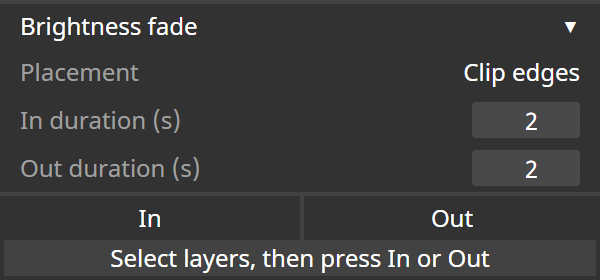
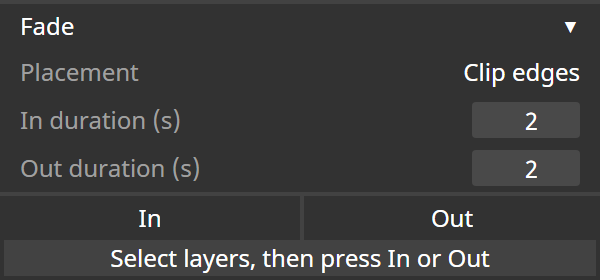
Rename plugin to In Out and fade audio volume
Audio layers (no brightness sequence) now get a Volume fade. Plugin,
folder and archive renamed from Brightness In Out to In Out; errors show
Designer's own message instead of a bare HTTP status. Refresh screenshot.

Changed region(s): [[0.03, 0.0571, 0.33, 0.1429]]

diff --git a/plugins/in-out/index.html b/plugins/in-out/index.html
@@ -6,7 +6,7 @@
     <meta name="disguise-plugin-window-size" content="300,170" />
     <meta name="disguise-plugin-window-min-size" content="240,150" />
     <meta name="disguise-plugin-window-resizable" content="true" />
-    <title>Brightness In / Out</title>
+    <title>In / Out</title>
     <link rel="stylesheet" href="disguise-ui.css" />
     <style>
       * { box-sizing: border-box; }
@@ -42,7 +42,7 @@
     </style>
   </head>
   <body class="d3-app d3-embedded">
-    <div class="d3-section">Brightness fade</div>
+    <div class="d3-section">Fade</div>
     <div class="d3-section-body">
       <label class="d3-row">
         <span class="d3-label nw">Placement</span>
@@ -80,10 +80,10 @@
 
       function restoreSettings() {
         ids.forEach((id) => {
-          const saved = localStorage.getItem(`brightness-fader:${id}`);
+          const saved = localStorage.getItem(`in-out:${id}`);
           if (saved !== null) fields[id].value = saved;
           fields[id].addEventListener('change', () => {
-            localStorage.setItem(`brightness-fader:${id}`, fields[id].value);
+            localStorage.setItem(`in-out:${id}`, fields[id].value);
           });
         });
       }
@@ -112,7 +112,11 @@
           'changed = []',
           'skipped = []',
           'for layer in selected:',
-          '    sequence = layer.findSequence("brightness")',
+          '    sequence = None',
+          '    for field_name in ("brightness", "volume"):',
+          '        sequence = layer.findSequence(field_name)',
+          '        if sequence is not None:',
+          '            break',
           '    if sequence is None:',
           '        skipped.append(layer.name)',
           '        continue',
@@ -153,7 +157,7 @@
           '    layer.notifyEdit(sequence)',
           '    changed.append(layer.name)',
           'if not changed:',
-          '    raise RuntimeError("No selected clip could be changed; check playhead position and Brightness availability")',
+          '    raise RuntimeError("No selected clip could be changed; check playhead position and Brightness/Volume availability")',
           'return {"changed": changed, "skipped": skipped, "duration": duration, "direction": direction, "placement": placement}'
         ].join('\n');
       }
@@ -170,12 +174,25 @@
         if (typeof result === 'string') {
           try { result = JSON.parse(result.replace(/'/g, '"')); } catch { result = null; }
         }
-        if (!result || !Array.isArray(result.changed)) return `Brightness ${direction} applied`;
+        if (!result || !Array.isArray(result.changed)) return `${direction} applied`;
         const count = result.changed.length;
         const skipped = Array.isArray(result.skipped) ? result.skipped.length : 0;
         let text = `${direction}: ${count} layer${count === 1 ? '' : 's'} changed`;
         if (skipped) text += `, ${skipped} skipped`;
         return text;
+      }
+
+      // The error body carries the real reason (Python exception or traceback).
+      function designerError(payload) {
+        if (!payload) return '';
+        const status = payload.status || {};
+        const details = Array.isArray(status.details)
+          ? status.details.map((d) => (typeof d === 'string' ? d : d && d.message)).filter(Boolean)
+          : [];
+        const parts = [status.message, ...details].filter(Boolean);
+        if (parts.length) return parts.join(' — ');
+        const log = String(payload.pythonLog || '').trim().split('\n').filter(Boolean);
+        return log.length ? log[log.length - 1] : '';
       }
 
       function setBusy(busy) {
@@ -204,20 +221,17 @@
             body: JSON.stringify({ script })
           });
           const payload = await response.json().catch(() => null);
-          if (!response.ok) throw new Error(`Designer returned HTTP ${response.status}.`);
-          if (!payload) throw new Error('Designer returned an empty or invalid response.');
-
-          const code = payload.status && payload.status.code;
-          if (typeof code === 'number' && code !== 0) {
-            const message = payload.status.message || payload.pythonLog || 'Python execution failed.';
-            throw new Error(message);
+          const code = payload && payload.status && payload.status.code;
+          if (!response.ok || (typeof code === 'number' && code !== 0)) {
+            throw new Error(designerError(payload) || `Designer returned HTTP ${response.status}.`);
           }
+          if (!payload) throw new Error('Designer returned an empty or invalid response.');
 
           const summary = resultSummary(payload, direction);
           showStatus(summary, summary.includes('skipped') ? 'warn' : 'ok');
         } catch (error) {
           console.error(error);
-          showStatus(`Brightness ${direction}: ${error.message}`, 'bad');
+          showStatus(`${direction}: ${error.message}`, 'bad');
         } finally {
           setBusy(false);
         }

diff --git a/README.md b/README.md
@@ -1,13 +1,15 @@
-# Brightness In / Out for disguise Designer
+# In / Out for disguise Designer
 
 Минималистичный локальный плагин для disguise Designer, который добавляет
-автоматизацию Brightness непосредственно к выделенным layers. Плагин не
+автоматизацию Brightness (для видео-layers) или Volume (для audio layers)
+непосредственно к выделенным layers. Плагин не
 требует сборки, внешних библиотек или подключения к интернету.
 
-![Интерфейс Brightness In Out](docs/interface.png)
+![Интерфейс In Out](docs/interface.png)
 
-- **In** — Brightness от `0` до `1`;
-- **Out** — Brightness от `1` до `0`;
+- **In** — Brightness/Volume от `0` до `1`;
+- **Out** — Brightness/Volume от `1` до `0`;
+- audio layers получают fade громкости, видео-layers — fade яркости;
 - обработка всех выделенных layers одной командой;
 - отдельная длительность для In и Out в секундах;
 - размещение по границам layer или относительно playhead;
@@ -17,12 +19,13 @@
 
 Сначала выделите один или несколько layers в текущем треке Designer. Плагин
 получает их через `guisystem.selectedLayers` и изменяет sequence `brightness`
-каждого выбранного layer.
+каждого выбранного layer. Если у layer нет `brightness` (например, audio
+layer), используется sequence `volume`.
 
 - **Clip edges / In:** от начала layer вперёд.
 - **Clip edges / Out:** заканчивается на конце layer.
-- **At playhead / Brightness In:** заканчивается в позиции playhead.
-- **At playhead / Brightness Out:** начинается в позиции playhead.
+- **At playhead / In:** заканчивается в позиции playhead.
+- **At playhead / Out:** начинается в позиции playhead.
 
 В режиме `At playhead` обрабатываются только выбранные layers, внутри которых
 сейчас находится playhead. Остальные выбранные layers пропускаются. Переход
@@ -34,16 +37,16 @@
 
 ## Установка
 
-1. Скачайте `brightness-in-out-plugin.zip` из последнего GitHub Release.
+1. Скачайте `in-out-plugin.zip` из последнего GitHub Release.
 2. Распакуйте архив в корневой каталог d3-проекта, открытого в Designer.
 3. Убедитесь, что итоговая
    структура должна быть без дополнительного вложенного каталога:
-   `{project_root}/plugins/brightness-in-out/index.html`,
-   `{project_root}/plugins/brightness-in-out/disguise-ui.css` и
-   `{project_root}/plugins/brightness-in-out/d3plugin.json`.
+   `{project_root}/plugins/in-out/index.html`,
+   `{project_root}/plugins/in-out/disguise-ui.css` и
+   `{project_root}/plugins/in-out/d3plugin.json`.
 4. Закройте окно Plugin Launcher и откройте его снова. Если
    плитка не появилась, перезапустите Designer с этим проектом.
-5. В Plugin Launcher выберите **Brightness In Out**.
+5. В Plugin Launcher выберите **In Out**.
 6. Выделите нужные layers, выберите способ размещения, задайте длительность и
    нажмите **In** или **Out**.
 
@@ -54,7 +57,7 @@
 
 - `In duration` и `Out duration`: от `0.1` до `3600` секунд;
 - ключи внутри нового участка удаляются, чтобы не искажать cubic-переход;
-- существующие ключи Brightness за пределами участка сохраняются;
+- существующие ключи Brightness/Volume за пределами участка сохраняются;
 - значения интерфейса сохраняются локально в окне плагина;
 - операция отменяется штатной командой Undo в Designer.
 
@@ -72,10 +75,10 @@
 
 ## Структура репозитория
 
-- `plugins/brightness-in-out/index.html` — интерфейс и логика плагина;
-- `plugins/brightness-in-out/disguise-ui.css` — стили в духе виджетов Designer;
-- `plugins/brightness-in-out/d3plugin.json` — метаданные для Plugin Launcher;
-- `brightness-in-out-plugin.zip` — готовый установочный архив;
+- `plugins/in-out/index.html` — интерфейс и логика плагина;
+- `plugins/in-out/disguise-ui.css` — стили в духе виджетов Designer;
+- `plugins/in-out/d3plugin.json` — метаданные для Plugin Launcher;
+- `in-out-plugin.zip` — готовый установочный архив;
 - `CHANGELOG.md` — история публичных версий.
 
 ## Лицензия

diff --git a/CHANGELOG.md b/CHANGELOG.md
@@ -1,5 +1,12 @@
 # Changelog
 
+## Unreleased
+
+- Fade the Volume of audio layers (layers without Brightness).
+- Rename the plugin to "In Out": folder `plugins/in-out`, archive
+  `in-out-plugin.zip`.
+- Show Designer's own error message instead of a bare HTTP status.
+
 ## 1.1.0 — 2026-09-24
 
 - Redraw the interface in the style of native Designer widgets: property rows,
